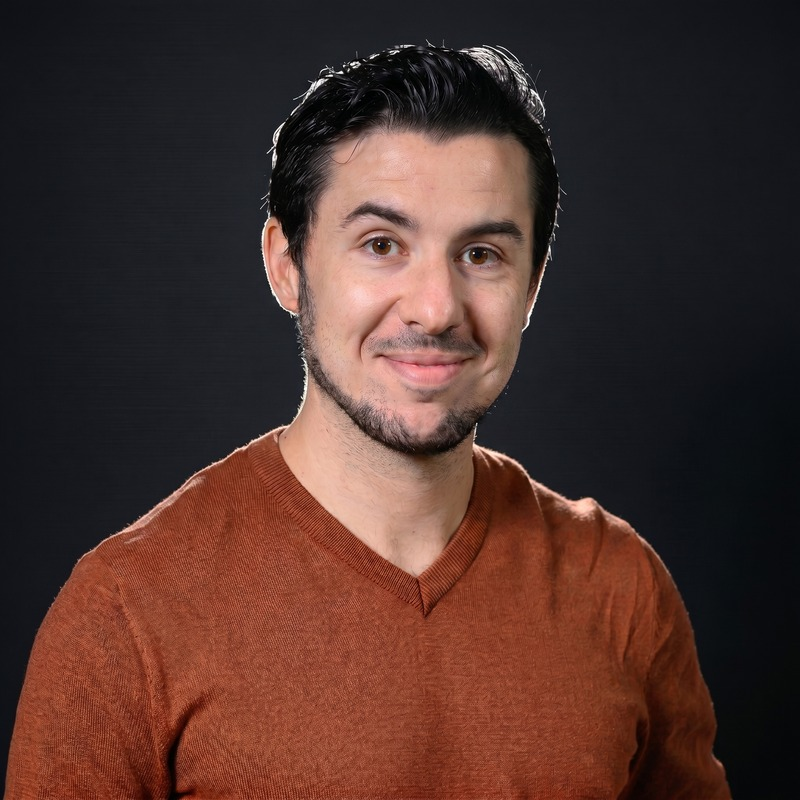
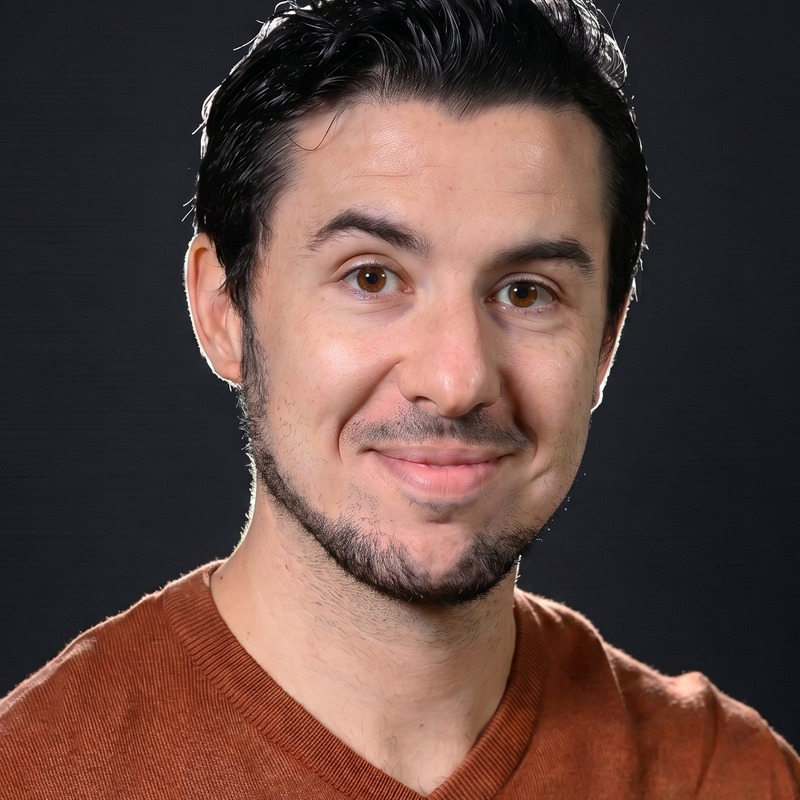
Refine site: greyscale palette + bigger tighter photo
- Drop blue accent (#3498db), switch to greyscale neutral (#d4d4d4) — Linear/Anthropic style
- Profile pic: 100px → 160px + tighter face crop (was head+shoulders+chest, now head+upper shoulders)
- CTA: text flipped to dark for readability on light bg, hover goes pure white
- Links hover: subtle dark lift (#2a2a2a) instead of accent fill

Aligned brand: premium calm, photo dominates, no chromatic clash with banner.

diff --git a/index.html b/index.html
@@ -32,7 +32,7 @@
       --bg-color: #0e0e0e;
       --card-bg: #1a1a1a;
       --text-color: #f2f2f2;
-      --accent-color: #3498db;
+      --accent-color: #d4d4d4;
       --hover-desc-color: #f8f8f8;
     }
 
@@ -74,11 +74,11 @@
     }
 
     .profile-image {
-      width: 100px;
-      height: 100px;
+      width: 160px;
+      height: 160px;
       border-radius: 50%;
       object-fit: cover;
-      margin-bottom: 1rem;
+      margin-bottom: 1.2rem;
       border: 3px solid var(--accent-color);
     }
 
@@ -128,13 +128,17 @@
 
     .cta a {
       background-color: var(--accent-color);
-      color: white;
+      color: #0e0e0e;
       font-size: 0.95rem;
     }
 
-    .links a:hover,
+    .links a:hover {
+      background-color: #2a2a2a;
+      transform: scale(1.02);
+    }
+
     .cta a:hover {
-      background-color: var(--accent-color);
+      background-color: #ffffff;
       transform: scale(1.02);
     }
 
